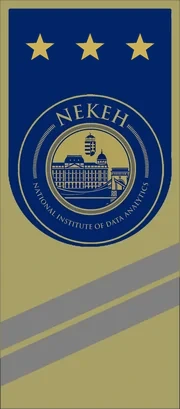
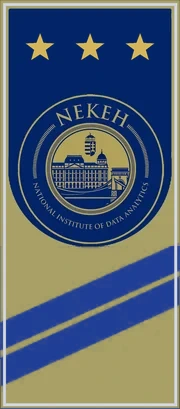
Vállapok: karonként eltérő csíkszín és szegély
Claude-Session: https://claude.ai/code/session_01RyjzkBksq3VffivzF6vyDZ

Changed region(s): [[0.0, 0.0, 1.0, 1.0]]

diff --git a/index.html b/index.html
@@ -1385,7 +1385,7 @@ body.rec-hide img,body.rec-hide .mug,body.rec-hide .av.has-photo,body.rec-hide .
       <section class="sec"><div class="wrap">
         <span class="eyebrow">Rendfokozatok</span>
         <h2 class="sec-title" style="margin-bottom:8px">Rendfokozati lánc</h2>
-        <p style="color:var(--ink-2);max-width:70ch">A rendfokozatot vállap jelzi. Az állományi kar kis ezüst, a felügyelői kar kis arany, a parancsnoki kar nagy arany csillagot visel; a Hatóság vezetése háromszögbe, illetve aranyszegélyes négyzetbe rendezett csillagokat. Előléptetésről a Főbiztos dönt.</p>
+        <p style="color:var(--ink-2);max-width:70ch">A rendfokozatot vállap jelzi. Az állományi kar acélszürke csíkot és ezüst csillagot, a felügyelői kar kék csíkot, ezüst szegélyt és kis arany csillagot, a parancsnoki kar bordó csíkot, arany szegélyt és nagy arany csillagot visel. A Hatóság vezetésének vállapja fehér csíkos, dupla aranyszegélyes. Előléptetésről a Főbiztos dönt.</p>
         <div class="ladder-line"></div>
         <div class="ladder" id="ladder"></div>
       </div></section>
